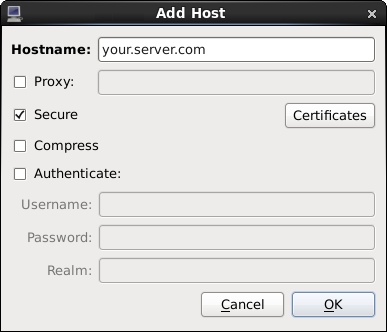
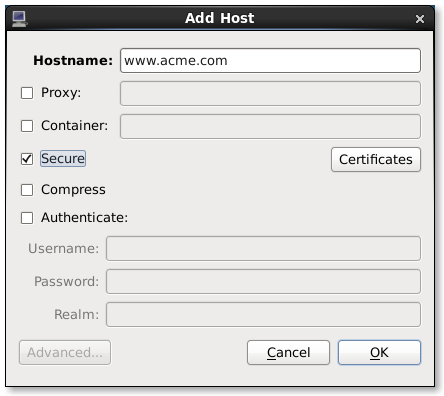
doc: improvements to html for tutorial rendering on pcp.io
Also fixed some invalid html with font tags within pre and
updated the host dialog window screenshot for secure tute.

Changed region(s): [[0.0, 0.0, 1.0, 1.0]]

diff --git a/man/html/lab.secure.html b/man/html/lab.secure.html
@@ -1,6 +1,6 @@
 <!DOCTYPE HTML PUBLIC "-//W3C//DTD HTML 4.0 Transitional//EN">
 <!--
- (c) Copyright 2013-2014 Red Hat.
+ (c) Copyright 2013-2015 Red Hat.
  Permission is granted to copy, distribute, and/or modify this document
  under the terms of the Creative Commons Attribution-Share Alike, Version
  3.0 or any later version published by the Creative Commons Corp. A copy
@@ -23,14 +23,15 @@
 	</TR>
 </TABLE>
 <H1 ALIGN=CENTER STYLE="margin-top: 0.48cm; margin-bottom: 0.32cm"><FONT SIZE=7>Secure Connections</FONT></H1>
+<P><BR></P>
 <TABLE WIDTH="15%" BORDER=0 CELLPADDING=5 CELLSPACING=10 ALIGN=RIGHT>
-	<TR><TD BGCOLOR="#e2e2e2"><IMG SRC="images/system-search.png" ALT="" WIDTH=16 HEIGHT=16 BORDER=0>&nbsp;&nbsp;<I>Tools</I><BR><PRE>
+	<TR><TD BGCOLOR="#e2e2e2">
+<PRE><IMG SRC="images/system-search.png" ALT="" WIDTH=16 HEIGHT=16 BORDER=0><I>Tools</I>
 certutil
 pmcd
 pminfo
 pmchart
-pmproxy
-</PRE></TD></TR>
+pmproxy</PRE></TD></TR>
 </TABLE>
 <P>This chapter of the Performance Co-Pilot tutorial covers setting up secure
 connections between PCP collector and monitor components.
@@ -170,12 +171,12 @@ using the <B>-x</B> option to <I>certutil</I>.
 	<TR><TD BGCOLOR="#e2e2e2" WIDTH="70%"><BR><IMG SRC="images/stepfwd_on.png" ALT="" WIDTH=16 HEIGHT=16 BORDER=0>&nbsp;&nbsp;&nbsp;After customising the certificate subject names (<B>-s</B> and <B>-8</B> options below), in a privileged shell enter:<BR>
 <PRE><B>
 # certutil -d sql:/etc/pki/nssdb -S -x \
-	-n &quot;<FONT COLOR="#000000">Local CA certificate</FONT>&quot; -s &quot;cn=<FONT COLOR="#000000">Local PCP Installation</FONT>, dc=<FONT COLOR="#cc0000">YOUR</FONT>,dc=<FONT COLOR="#cc0000">DOMAIN</FONT>,dc=<FONT COLOR="#cc0000">NAME</FONT>&quot; \
+	-n &quot;Local CA certificate&quot; -s &quot;cn=Local PCP Installation, dc=<SPAN>YOUR</SPAN>,dc=<SPAN>DOMAIN</SPAN>,dc=<SPAN>NAME</SPAN>&quot; \
 	-t &quot;CT,,&quot; -v 120
 
 # certutil -d sql:/etc/pki/nssdb -S \
-	-c &quot;<FONT COLOR="#000000">Local CA certificate</FONT>&quot; \
-	-n &quot;PCP Collector certificate&quot; -s &quot;cn=PCP Collector&quot; -8 &quot;<FONT COLOR="#cc0000">YOUR.HOST.NAME,ALT.DNS.NAME,...</FONT>" \
+	-c &quot;Local CA certificate&quot; \
+	-n &quot;PCP Collector certificate&quot; -s &quot;cn=PCP Collector&quot; -8 &quot;<SPAN>YOUR.HOST.NAME,ALT.DNS.NAME,...</SPAN>" \
 	-t &quot;P,,&quot; -v 120
 </B></PRE>
 </TD></TR>
@@ -228,15 +229,15 @@ and certificate will be automatically setup in the correct location on your beha
 	<TR><TD BGCOLOR="#e2e2e2" WIDTH="70%"><BR><IMG SRC="images/stepfwd_on.png" ALT="" WIDTH=16 HEIGHT=16 BORDER=0>&nbsp;&nbsp;&nbsp;To establish a secure connection, in a shell enter:<BR>
 <PRE><B>
 $ export PCP_SECURE_SOCKETS=enforce
-$ pminfo -h <FONT COLOR="#cc0000">YOUR.HOST.NAME</FONT> -f kernel.all.load
-WARNING: issuer of certificate received from host <FONT COLOR="#000000">YOUR.HOST.NAME</FONT> is not trusted.
-SHA1 fingerprint is <FONT COLOR="#000000">34:92:D2:DC:DE:28:3A:2D:DD:B9:1A:6C:C9:51:1E:B8:FA:CE:63:51</FONT>
-Do you want to accept and save this certificate locally anyway (y/n)? <FONT COLOR="#000000">y</FONT>
+$ pminfo --host <SPAN>YOUR.HOST.NAME</SPAN> -f kernel.all.load
+WARNING: issuer of certificate received from host YOUR.HOST.NAME is not trusted.
+SHA1 fingerprint is 34:92:D2:DC:DE:28:3A:2D:DD:B9:1A:6C:C9:51:1E:B8:FA:CE:63:51
+Do you want to accept and save this certificate locally anyway (y/n)? y
 
 kernel.all.load
-    inst [1 or "1 minute"] value <FONT COLOR="#000000">1.26</FONT>
-    inst [5 or "5 minute"] value <FONT COLOR="#000000">1.29</FONT>
-    inst [15 or "15 minute"] value <FONT COLOR="#000000">1.28</FONT>
+    inst [1 or "1 minute"] value 1.26
+    inst [5 or "5 minute"] value 1.29
+    inst [15 or "15 minute"] value 1.28
 </B></PRE>
 </TD></TR>
 </TABLE>
@@ -297,10 +298,13 @@ on a monitor system allowing access to a group of hosts.
 <BR>
 <P ALIGN=LEFT><FONT SIZE=4><B>Graphical Monitor Tools</B></FONT>
 <TABLE WIDTH="100%" BORDER=0 CELLPADDING=0 CELLSPACING=0 STYLE="page-break-before: always">
-        <TR><TD WIDTH=500><P ALIGN=><CENTER><BR><IMG ALIGN=MIDDLE SRC="images/pmchart_add_host_secure.png" ALT="" BORDER=0></CENTER></P></TD>
+        <TR><TD WIDTH=500><P ALIGN=CENTER><BR><IMG ALIGN=MIDDLE SRC="images/pmchart_add_host_secure.png" ALT="" BORDER=0></P></TD>
         <TD><P>In the PCP strip chart utility <I>pmchart</I> from version 1.5.7 onward, secure connections can be established using the "Add Host" dialog.  This can be accessed via the "New Chart" or "Open View" menu entries.<UL>
         <LI>Specify the name of the PCP Collector system where <I>pmcd</I> is running.
+        <LI>Press the "Advanced..." button in the bottom left.
         <LI>Select the "Secure" check box.
+        <LI>If the <I>nss-gui</I> application is installed, the "Certificates" button
+can be used to inspect and administer locally installed security certificates.
         <LI>Press "OK" to establish a new secure connection to the host.
 	</UL>
 	Note that it is not necessary to use the PCP_SECURE_SOCKETS environment variable described above with <I>pmchart</I>.  However, if it is used, secure connections will become the default mode for all connections established by <I>pmchart</I> too.

diff --git a/man/html/lab.containers.html b/man/html/lab.containers.html
@@ -95,7 +95,7 @@ are in a position to begin analysing those containers with PCP tools.
 <PRE><B>$ pminfo --fetch containers.name containers.state.running
 
 containers.name
-    inst [0 or "<FONT COLOR="#cc0000">f4d3b90bea15</FONT>..."] value "<FONT COLOR="#cc0000">sharp_feynman</FONT>"
+    inst [0 or "<SPAN>f4d3b90bea15</SPAN>..."] value "<SPAN>sharp_feynman</SPAN>"
     inst [1 or "d43eda0a7e7d..."] value "cranky_colden"
     inst [2 or "252b56e79da5..."] value "desperate_turing"
 
@@ -107,10 +107,10 @@ containers.state.running
 $ pmprobe -I network.interface.up
 network.interface.up 5 "p2p1" "wlp2s0" "lo" "docker0" "veth2234780"
 
-$ pmprobe -I --container <FONT COLOR="#cc0000">sharp_feynman</FONT> network.interface.up
+$ pmprobe -I --container <SPAN>sharp_feynman</SPAN> network.interface.up
 network.interface.up 2 "lo" "eth0"
 
-$ pmprobe -I --container <FONT COLOR="#cc0000">f4d3b90bea15</FONT> network.interface.up
+$ pmprobe -I --container <SPAN>f4d3b90bea15</SPAN> network.interface.up
 network.interface.up 2 "lo" "eth0"</B></PRE>
 </TD></TR>
 </TABLE>
@@ -270,7 +270,7 @@ These include the network, filesys, ipc, and other metrics in
 </P>
 <TABLE WIDTH="100%" BORDER=0 CELLPADDING=10 CELLSPACING=20>
 	<TR><TD BGCOLOR="#e2e2e2" WIDTH="70%"><BR><IMG SRC="images/stepfwd_on.png" ALT="" WIDTH=16 HEIGHT=16 BORDER=0>&nbsp;&nbsp;&nbsp;Requesting container-specific process and control group metrics:
-<BR><PRE><B>$ pminfo -t --fetch --container <FONT COLOR="#cc0000">sharp_feynman</FONT> cgroup.memory.stat.cache proc.psinfo.rss pmcd.hostname
+<BR><PRE><B>$ pminfo -t --fetch --container <SPAN>sharp_feynman</SPAN> cgroup.memory.stat.cache proc.psinfo.rss pmcd.hostname
 
 cgroup.memory.stat.cache [Number of bytes of page cache memory]
     inst [2 or "/system.slice/docker-f4d3b90bea15..."] value 9695232
@@ -280,7 +280,7 @@ proc.psinfo.rss [resident set size (i.e. physical memory) of the process]
     inst [27996 or "027996 /bin/bash"] value 2964
 
 pmcd.hostname [local hostname]
-    value "f4d3b90bea15"</B></PRE>
+    value "<SPAN>f4d3b90bea15</SPAN>"</B></PRE>
 </TD></TR>
 </TABLE>
 
@@ -301,7 +301,7 @@ consumed form - a little like <I>top</I> or <I>vmstat</I> perhaps.</P>
 
 <P ALIGN=LEFT><FONT SIZE=4><B>Graphical Tools</B></FONT>
 <TABLE WIDTH="100%" BORDER=0 CELLPADDING=0 CELLSPACING=0 STYLE="page-break-before: always">
-        <TR><TD WIDTH=500><P ALIGN=><CENTER><BR><IMG ALIGN=MIDDLE SRC="images/pmchart_add_host_container.png" ALT="" BORDER=0></CENTER></P></TD>
+        <TR><TD WIDTH=500><P ALIGN=CENTER><BR><IMG ALIGN=MIDDLE SRC="images/pmchart_add_host_container.png" ALT="" BORDER=0></P></TD>
         <TD><P>In the PCP strip chart utility <I>pmchart</I> from version 3.10.3 onward, connections to containers can be established using the "Add Host" dialog, as shown to the left.</P>
 	<P>This can be accessed via the "New Chart" or "Open View" menu entries.</P>
 	<UL>

diff --git a/man/html/lab.pmview.html b/man/html/lab.pmview.html
@@ -24,16 +24,17 @@
 	</TR>
 </TABLE>
 <H1 ALIGN=CENTER STYLE="margin-top: 0.48cm; margin-bottom: 0.32cm"><FONT SIZE=7>Performance Visualisation with <I>pmview</I></FONT></H1>
+<P><BR></P>
 <TABLE WIDTH="15%" BORDER=0 CELLPADDING=5 CELLSPACING=10 ALIGN=RIGHT>
-	<TR><TD BGCOLOR="#e2e2e2"><IMG SRC="images/system-search.png" ALT="" WIDTH=16 HEIGHT=16 BORDER=0>&nbsp;&nbsp;<I>Tools</I><BR><PRE>
+	<TR><TD BGCOLOR="#e2e2e2">
+<PRE><IMG SRC="images/system-search.png" ALT="" WIDTH=16 HEIGHT=16 BORDER=0><I>Tools</I>
 pmview
 mpvis
 osvis
 dkvis
 pmafm
 pmtime
-pmchart
-</PRE></TD></TR>
+pmchart</PRE></TD></TR>
 </TABLE>
 <P><B>Note:</B> The open source version of <I>pmview</I> is currently under development, and is <B>not</B> yet shipped as part of PCP GUI, but is available for experimental use in the development source tree.</P>
 <P>Visual tools take advantage of common cognitive skills, especially for visual pattern matching and scene change discrimination.

diff --git a/man/html/lab.auth.html b/man/html/lab.auth.html
@@ -23,8 +23,10 @@
 	</TR>
 </TABLE>
 <H1 ALIGN=CENTER STYLE="margin-top: 0.48cm; margin-bottom: 0.32cm"><FONT SIZE=7>Authenticated Connections</FONT></H1>
+<P><BR></P>
 <TABLE WIDTH="15%" BORDER=0 CELLPADDING=5 CELLSPACING=10 ALIGN=RIGHT>
-	<TR><TD BGCOLOR="#e2e2e2"><IMG SRC="images/system-search.png" ALT="" WIDTH=16 HEIGHT=16 BORDER=0>&nbsp;&nbsp;<I>Tools</I><BR><PRE>
+	<TR><TD BGCOLOR="#e2e2e2">
+<PRE><IMG SRC="images/system-search.png" ALT="" WIDTH=16 HEIGHT=16 BORDER=0><I>Tools</I>
 pmcd
 pminfo
 pmchart
@@ -36,8 +38,7 @@ saslpasswd2
 sasldblistusers2
 kadmin.local
 kinit
-klist
-</PRE></TD></TR>
+klist</PRE></TD></TR>
 </TABLE>
 <P>This chapter of the Performance Co-Pilot tutorial covers setting up authenticated
 connections between PCP collector and monitor components.

diff --git a/man/html/lab.pmieconf.html b/man/html/lab.pmieconf.html
@@ -25,14 +25,15 @@
 </TABLE>
 <H1 ALIGN=CENTER STYLE="margin-top: 0.48cm; margin-bottom: 0.32cm"><FONT SIZE=7>
 Site rules with <I>pmieconf</I></FONT></H1>
+<P><BR></P>
 <TABLE WIDTH="15%" BORDER=0 CELLPADDING=5 CELLSPACING=10 ALIGN=RIGHT>
-	<TR><TD BGCOLOR="#e2e2e2"><IMG SRC="images/system-search.png" ALT="" WIDTH=16 HEIGHT=16 BORDER=0>&nbsp;&nbsp;<I>Tools</I><BR><PRE>
+	<TR><TD BGCOLOR="#e2e2e2">
+<PRE><IMG SRC="images/system-search.png" ALT="" WIDTH=16 HEIGHT=16 BORDER=0><I>Tools</I>
 pmie
 pmval
 pmchart
 pmieconf
-pmdashping
-</PRE></TD></TR>
+pmdashping</PRE></TD></TR>
 </TABLE>
 <P>This tutorial covers customization of <I>pmie</I> rules using
 <I>pmieconf</I>.&nbsp;&nbsp;For an explanation of Performance Co-Pilot

diff --git a/man/html/lab.trace.html b/man/html/lab.trace.html
@@ -24,12 +24,13 @@
 	</TR>
 </TABLE>
 <H1 ALIGN=CENTER STYLE="margin-top: 0.48cm; margin-bottom: 0.32cm"><FONT SIZE=7>Trace Agent</FONT></H1>
+<P><BR></P>
 <TABLE WIDTH="15%" BORDER=0 CELLPADDING=5 CELLSPACING=10 ALIGN=RIGHT>
-	<TR><TD BGCOLOR="#e2e2e2"><IMG SRC="images/system-search.png" ALT="" WIDTH=16 HEIGHT=16 BORDER=0>&nbsp;&nbsp;<I>Tools</I><BR><PRE>
+	<TR><TD BGCOLOR="#e2e2e2">
+<PRE><IMG SRC="images/system-search.png" ALT="" WIDTH=16 HEIGHT=16 BORDER=0><I>Tools</I>
 pmdatrace
 pmtrace
-pminfo
-</PRE></TD></TR>
+pminfo</PRE></TD></TR>
 </TABLE>
 <P>This chapter of the Performance Co-Pilot tutorial discusses application
 instrumentation using the <B>trace</B> PMDA (Performance Metrics Domain Agent).

diff --git a/man/html/lab.pmlogger.html b/man/html/lab.pmlogger.html
@@ -24,15 +24,16 @@
 	</TR>
 </TABLE>
 <H1 ALIGN=CENTER STYLE="margin-top: 0.48cm; margin-bottom: 0.32cm"><FONT SIZE=7>Archive log management</FONT></H1>
+<P><BR></P>
 <TABLE WIDTH="15%" BORDER=0 CELLPADDING=5 CELLSPACING=10 ALIGN=RIGHT>
-	<TR><TD BGCOLOR="#e2e2e2"><IMG SRC="images/system-search.png" ALT="" WIDTH=16 HEIGHT=16 BORDER=0>&nbsp;&nbsp;<I>Tools</I><BR><PRE>
+	<TR><TD BGCOLOR="#e2e2e2">
+<PRE><IMG SRC="images/system-search.png" ALT="" WIDTH=16 HEIGHT=16 BORDER=0><I>Tools</I>
 pmlc
 pmafm
 pmlogger
 pmdumplog
 mpvis
-mkaf
-</PRE></TD></TR>
+mkaf</PRE></TD></TR>
 </TABLE>
 <P>This chapter of the Performance Co-Pilot tutorial covers PCP tools for
 creating and managing PCP archive logs.</P>

diff --git a/man/html/lab.pmchart.html b/man/html/lab.pmchart.html
@@ -15,13 +15,14 @@
 	</TR>
 </TABLE>
 <H1 ALIGN=CENTER STYLE="margin-top: 0.48cm; margin-bottom: 0.32cm"><FONT SIZE=7>PCP Strip Charts</FONT></H1>
+<P><BR></P>
 <TABLE WIDTH="15%" BORDER=0 CELLPADDING=5 CELLSPACING=10 ALIGN=RIGHT>
-	<TR><TD BGCOLOR="#e2e2e2"><IMG SRC="images/system-search.png" ALT="" WIDTH=16 HEIGHT=16 BORDER=0>&nbsp;&nbsp;<I>Tools</I><BR><PRE>
+	<TR><TD BGCOLOR="#e2e2e2">
+<PRE><IMG SRC="images/system-search.png" ALT="" WIDTH=16 HEIGHT=16 BORDER=0><I>Tools</I>
 pmchart
 pmtime
 pmlogger
-pmafm
-</PRE></TD></TR>
+pmafm</PRE></TD></TR>
 </TABLE>
 <P>The following tutorial introduces the basic functionality available in the PCP Strip Chart tool, <I>pmchart</I>.</P>
 <UL>

diff --git a/man/html/lab.importdata.html b/man/html/lab.importdata.html
@@ -15,15 +15,16 @@
 	</tr>
 </table>
 <h1>Importing data and creating PCP archives</h1>
+<p><br></p>
 <table width="15%" border=0 cellpadding=5 cellspacing=10 align=right>
-	<tr><td bgcolor="#e2e2e2"><img src="images/system-search.png" alt="search" width=16 height=16 border=0>&nbsp;&nbsp;<i>Tools</i><br><pre>
+	<tr><td bgcolor="#e2e2e2">
+<pre><img src="images/system-search.png" alt="search" width=16 height=16 border=0><i>Tools</i>
 PCP::LogImport
 pmlogsummary
 pmlogger
 pmchart
 pmie
-perl
-</pre></td></tr>
+perl</pre></td></tr>
 </table>
 <p>For most performance data processed by the Performance Co-Pilot (PCP),
 the information is gathered by domain-specific agents or Performance

diff --git a/man/html/lab.pmie.html b/man/html/lab.pmie.html
@@ -25,14 +25,15 @@
 </TABLE>
 <H1 ALIGN=CENTER STYLE="margin-top: 0.48cm; margin-bottom: 0.32cm"><FONT SIZE=7>
 Automated reasoning with <I>pmie</I></FONT></H1>
+<P><BR></P>
 <TABLE WIDTH="15%" BORDER=0 CELLPADDING=5 CELLSPACING=10 ALIGN=RIGHT>
-	<TR><TD BGCOLOR="#e2e2e2"><IMG SRC="images/system-search.png" ALT="" WIDTH=16 HEIGHT=16 BORDER=0>&nbsp;&nbsp;<I>Tools</I><BR><PRE>
+	<TR><TD BGCOLOR="#e2e2e2">
+<PRE><IMG SRC="images/system-search.png" ALT="" WIDTH=16 HEIGHT=16 BORDER=0><I>Tools</I>
 pmie
 dkvis
 pminfo
 pmchart
-pmdumplog
-</PRE></TD></TR>
+pmdumplog</PRE></TD></TR>
 </TABLE>
 
 <P>For many systems, the performance data is produced in volumes and at

diff --git a/man/html/lab.mmapvalues.html b/man/html/lab.mmapvalues.html
@@ -15,13 +15,13 @@
 	</TR>
 </TABLE>
 <H1 ALIGN=CENTER STYLE="margin-top: 0.48cm; margin-bottom: 0.32cm"><FONT SIZE=7>Memory Mapped Values</FONT></H1>
+<P><BR></P>
 <TABLE WIDTH="15%" BORDER=0 CELLPADDING=5 CELLSPACING=10 ALIGN=RIGHT>
-	<TR><TD BGCOLOR="#e2e2e2"><IMG SRC="images/system-search.png" ALT="" WIDTH=16 HEIGHT=16 BORDER=0>&nbsp;&nbsp;<I>Tools</I><BR><PRE>
-pmdammv
+	<TR><TD BGCOLOR="#e2e2e2">
+<PRE><IMG SRC="images/system-search.png" ALT="" WIDTH=16 HEIGHT=16 BORDER=0><I>Tools</I>pmdammv
 mmvdump
 java
-perl
-</PRE></TD></TR>
+perl</PRE></TD></TR>
 </TABLE>
 <P>Introductory text.&nbsp;&nbsp;This is a placeholder.&nbsp;&nbsp;TODO...
 </P>

diff --git a/man/html/lab.pmdas.html b/man/html/lab.pmdas.html
@@ -15,13 +15,14 @@
 	</TR>
 </TABLE>
 <H1 ALIGN=CENTER STYLE="margin-top: 0.48cm; margin-bottom: 0.32cm"><FONT SIZE=7>Adding Metrics</FONT></H1>
+<P><BR></P>
 <TABLE WIDTH="15%" BORDER=0 CELLPADDING=5 CELLSPACING=10 ALIGN=RIGHT>
-	<TR><TD BGCOLOR="#e2e2e2"><IMG SRC="images/system-search.png" ALT="" WIDTH=16 HEIGHT=16 BORDER=0>&nbsp;&nbsp;<I>Tools</I><BR><PRE>
+	<TR><TD BGCOLOR="#e2e2e2">
+<PRE><IMG SRC="images/system-search.png" ALT="" WIDTH=16 HEIGHT=16 BORDER=0><I>Tools</I>
 dbpmda
 genpmda
 python
-perl
-</PRE></TD></TR>
+perl</PRE></TD></TR>
 </TABLE>
 <P>Introductory text.&nbsp;&nbsp;This is a placeholder.&nbsp;&nbsp;TODO...
 </P>
